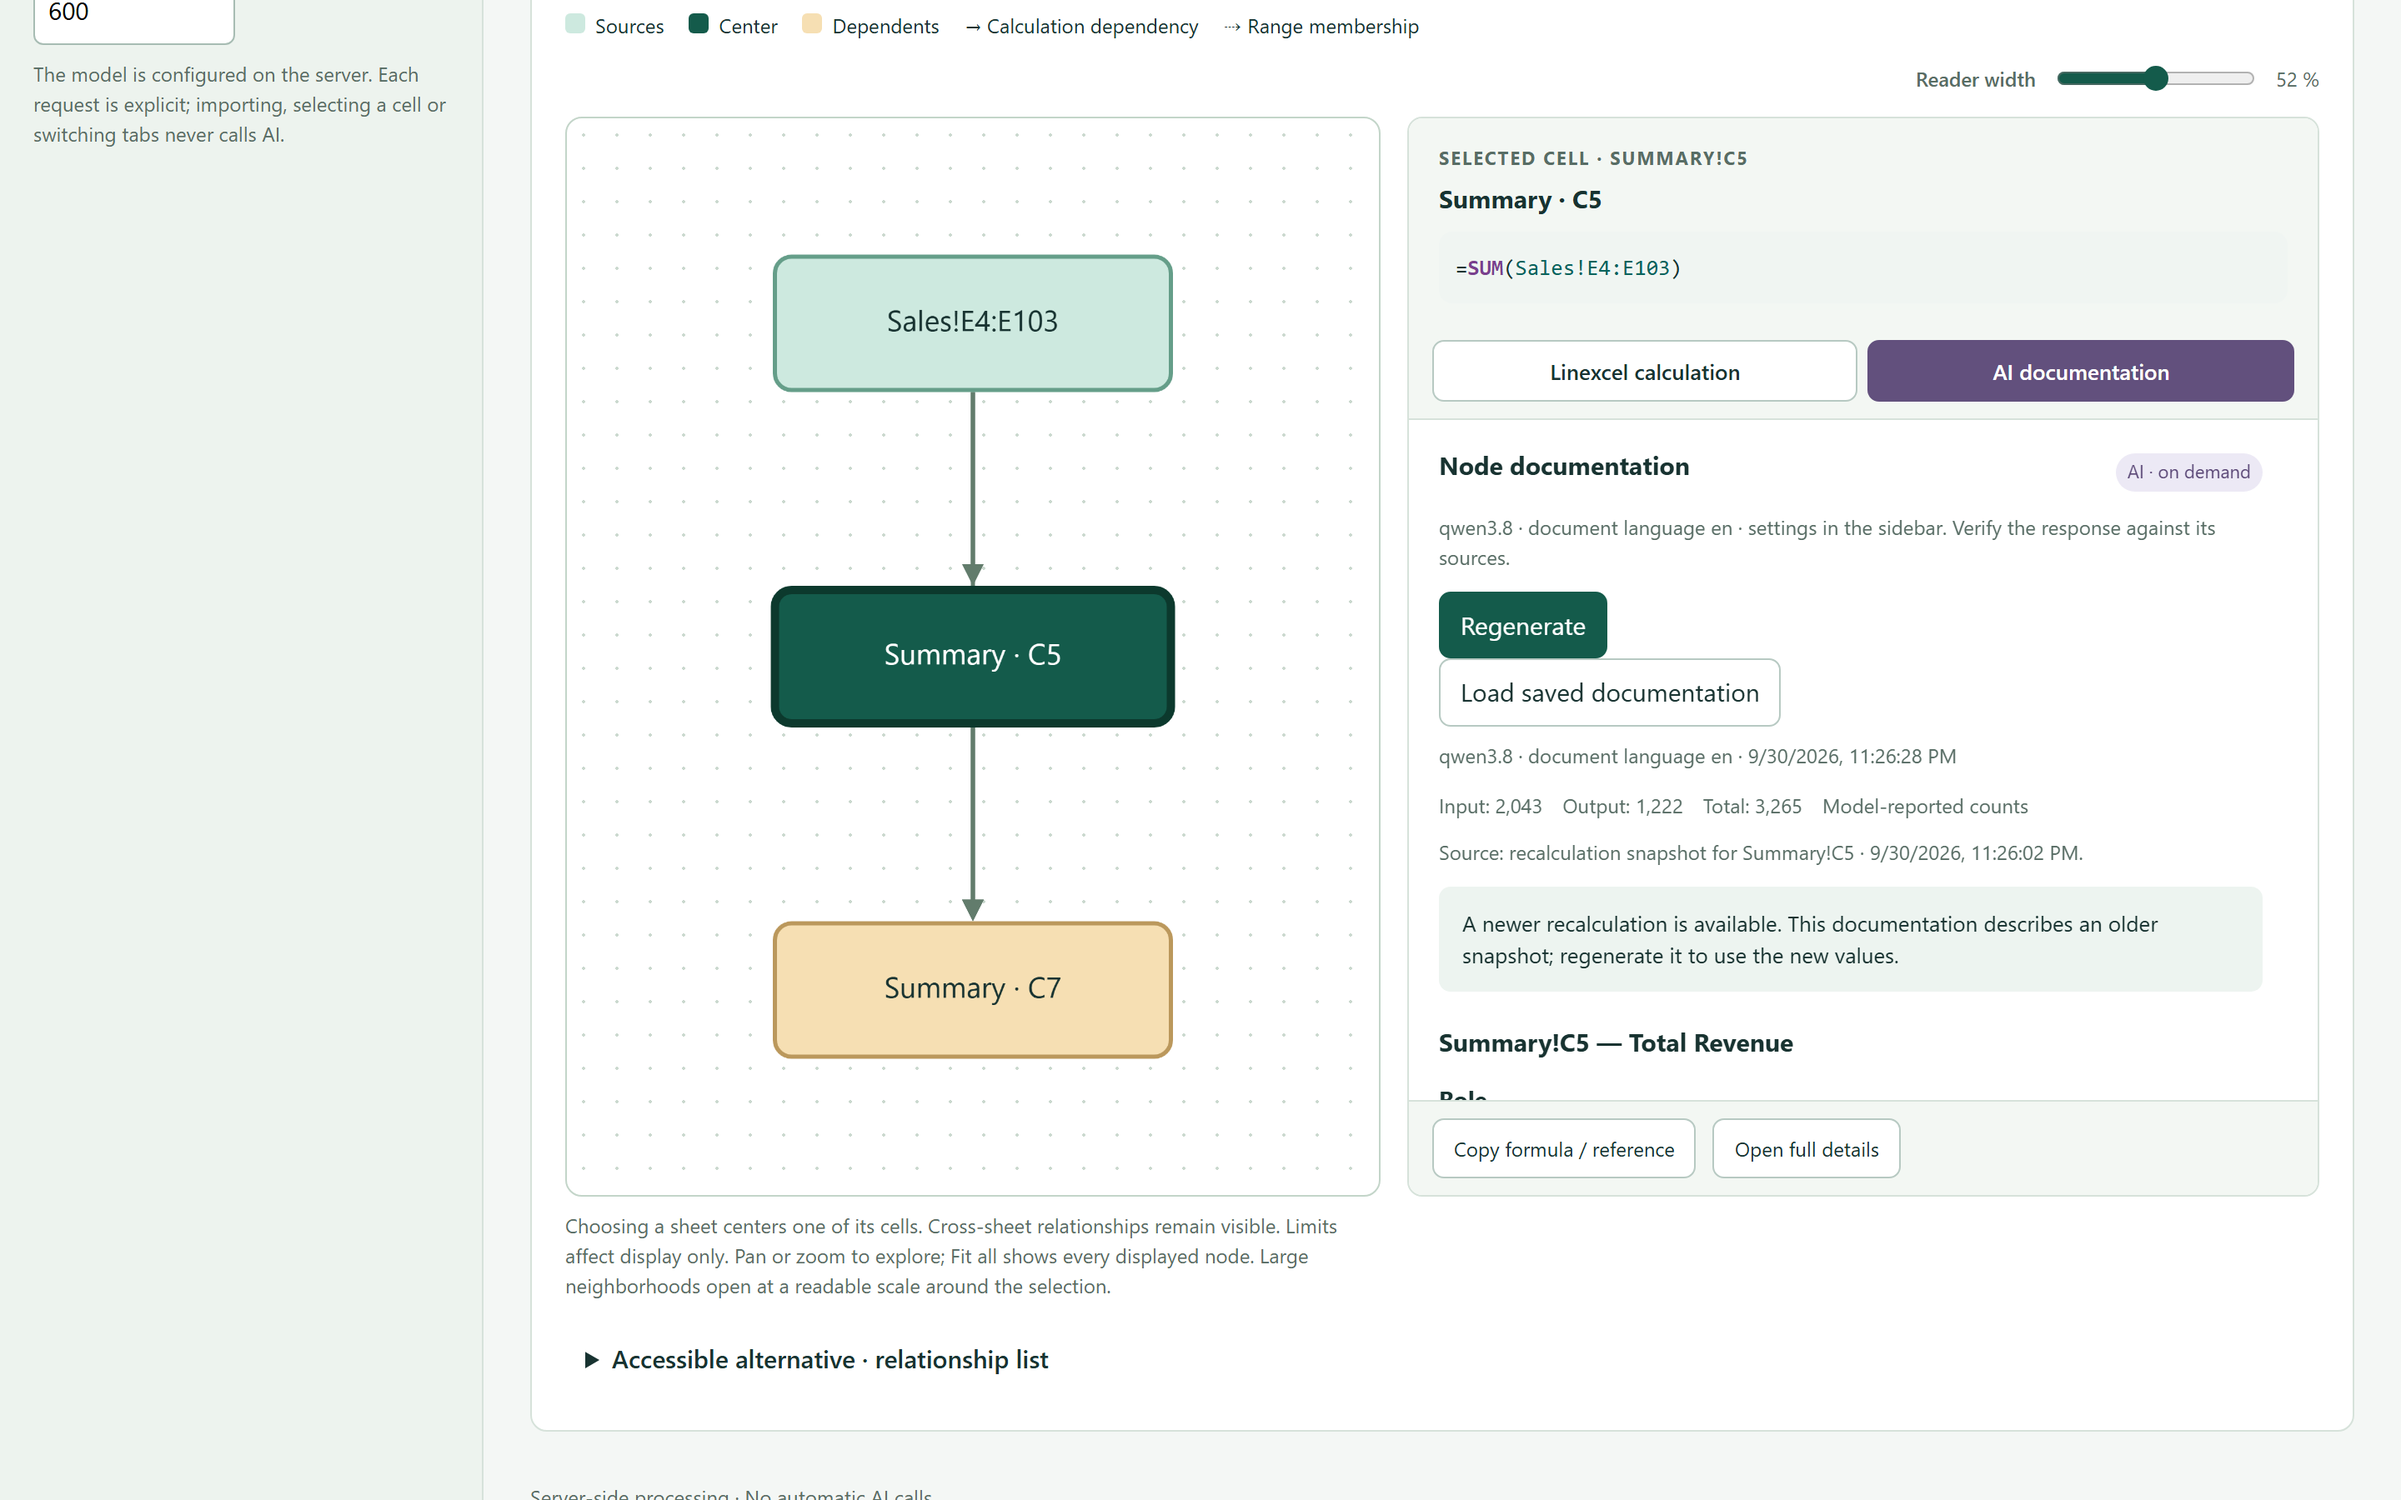
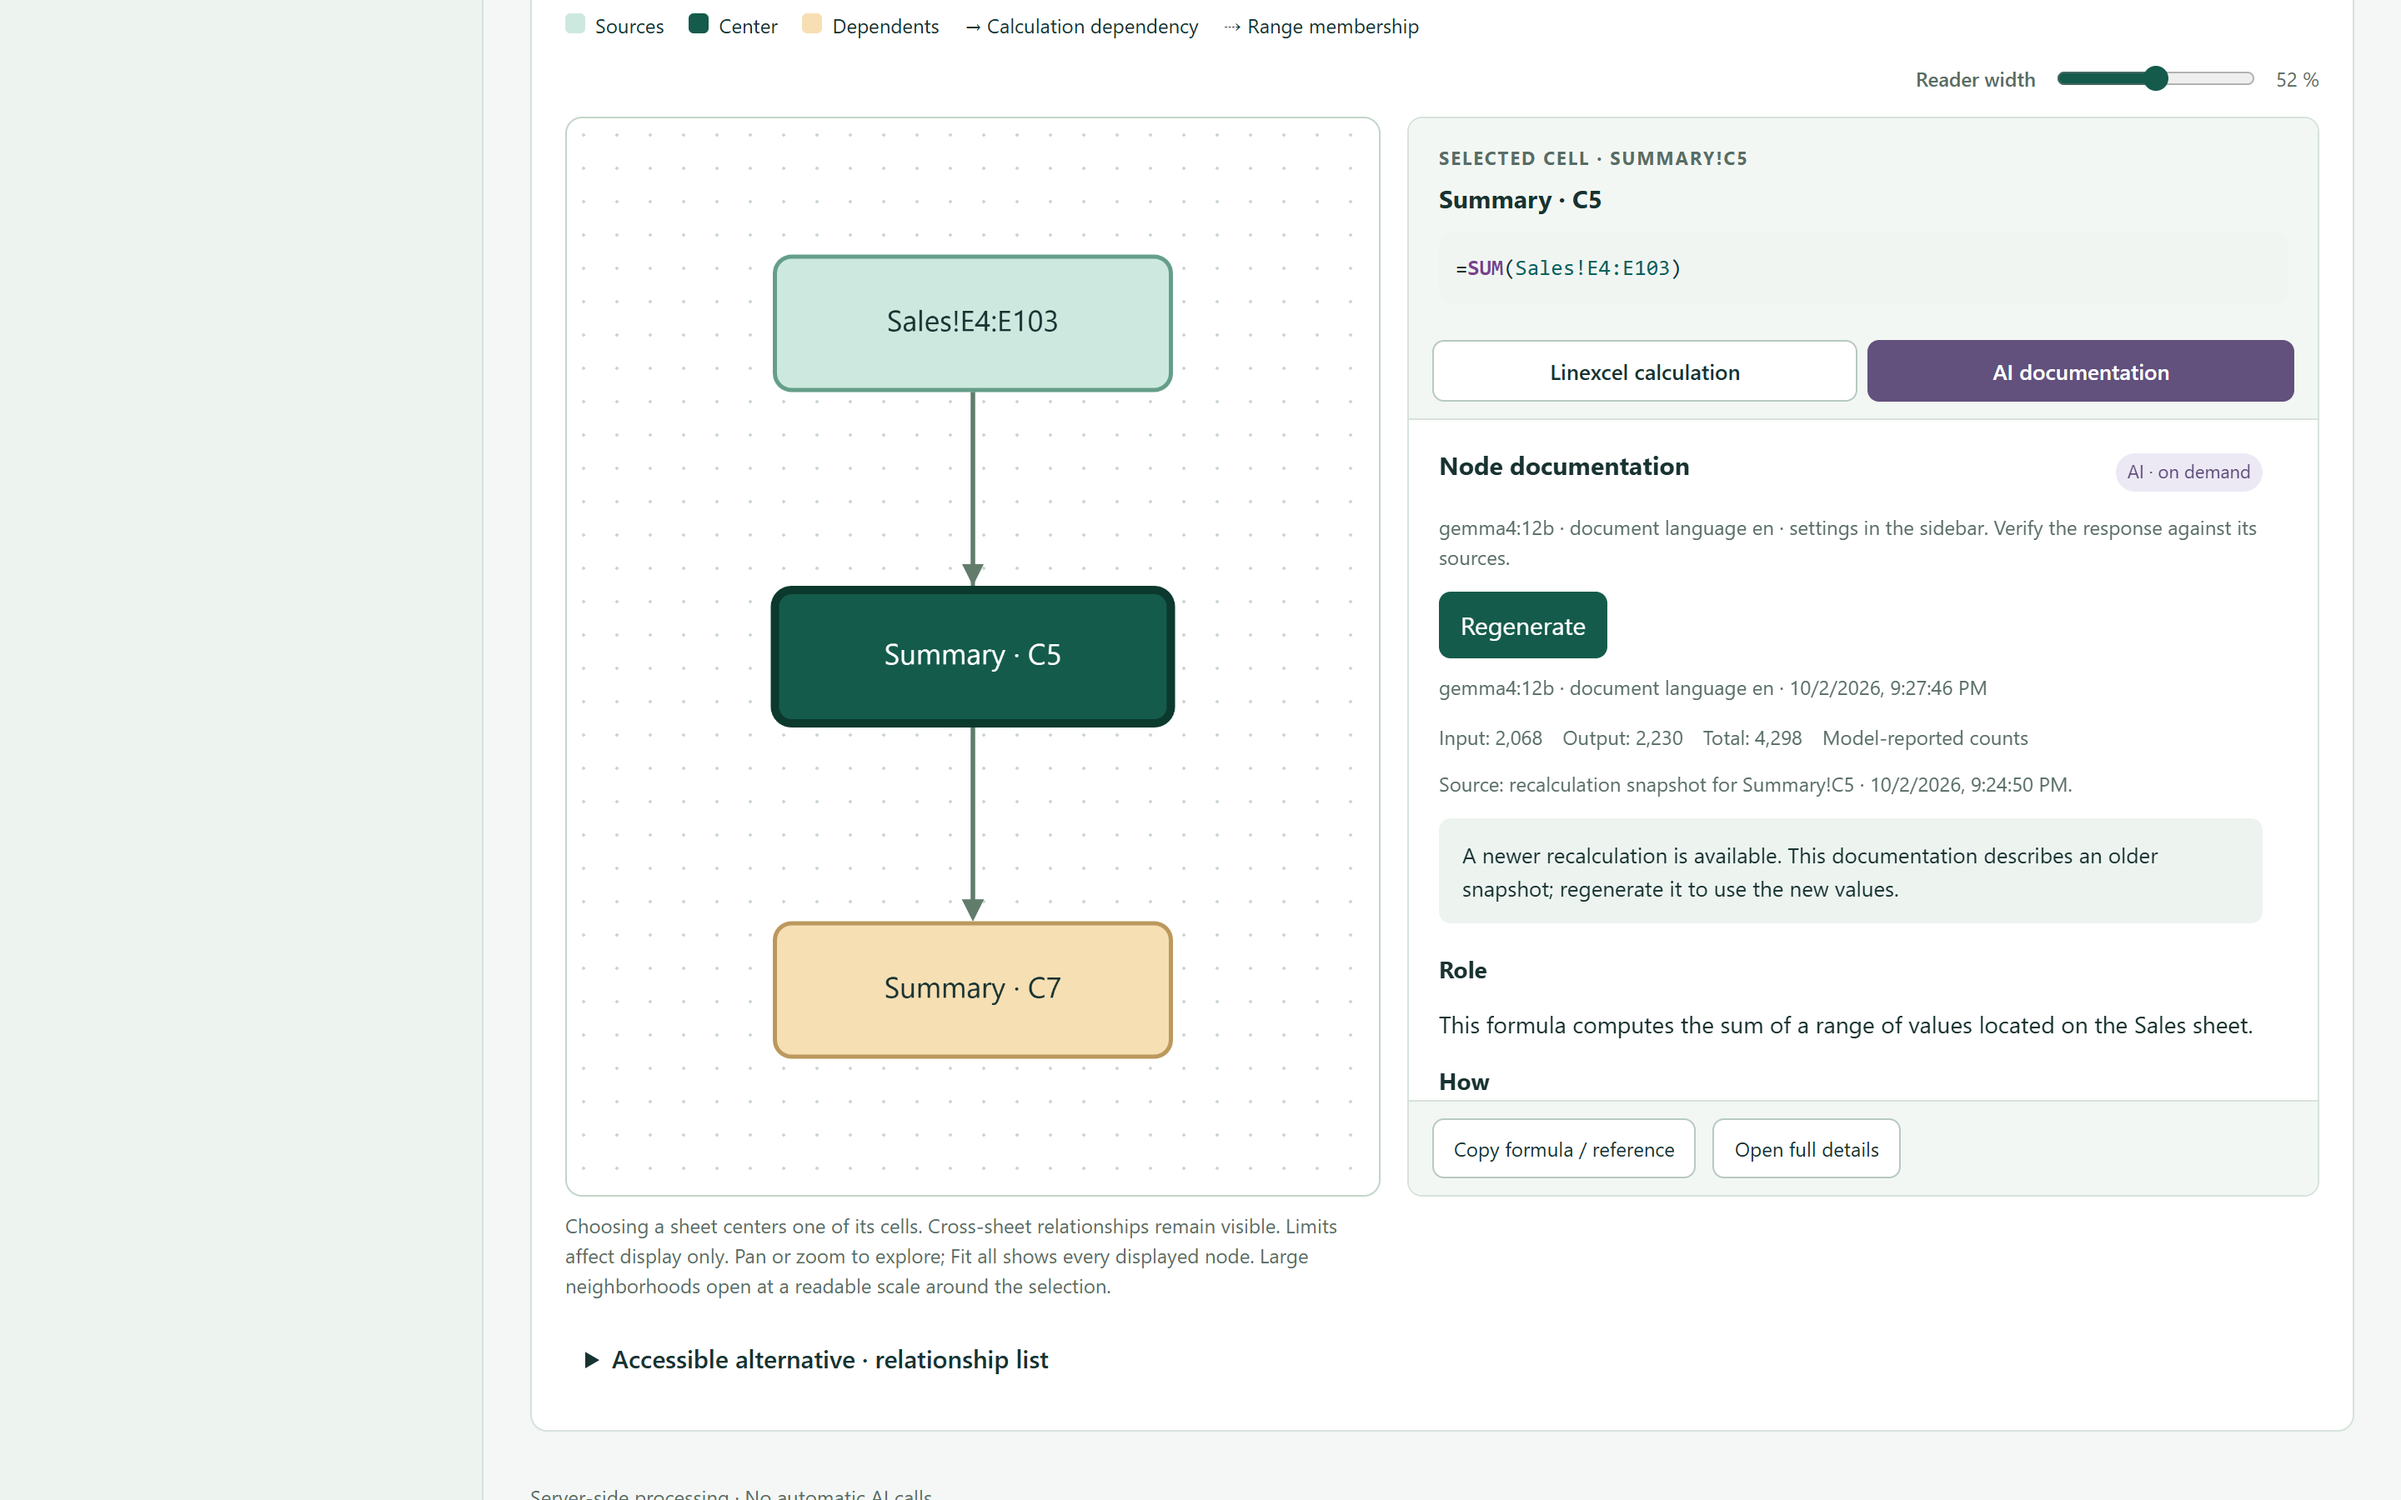
fix: refresh app captures and await graph cancellation

diff --git a/tests/test_app_large_browser.py b/tests/test_app_large_browser.py
@@ -677,14 +677,14 @@ def test_server_hierarchy_and_manual_calculation_are_independent(
         fail_view = True
         page.locator("#graph-build").click()
         page.locator("#graph-build-status").get_by_text("Structure modifiée").wait_for()
-        assert page.locator("#graph-build").is_enabled()
+        playwright.expect(page.locator("#graph-build")).to_be_enabled()
         fail_view, delay_build = False, True
         page.locator("#graph-build").click()
         page.locator("#graph-build-cancel").wait_for()
         page.reload()
         page.locator("#tab-graph").click()
         page.locator("#graph-build-cancel").click()
-        assert page.locator("#graph-build").is_enabled()
+        playwright.expect(page.locator("#graph-build")).to_be_enabled()
         assert tasks[-1]["status"] == "cancelled"
         assert page.locator("#graph-neighborhood").is_hidden()
         assert not errors

diff --git a/CHANGELOG.md b/CHANGELOG.md
@@ -24,6 +24,11 @@ and this project adheres to [Semantic Versioning](https://semver.org/spec/v2.0.0
   evidence until **Recalculate** is pressed. Neither mode recalculates the whole
   workbook or automatically requests AI documentation.
 
+### Changed
+
+- Refresh the English application screenshots for the server-backed graph and
+  manual recalculation controls.
+
 ## [1.12.0] — 2026-10-01
 
 ### Added
